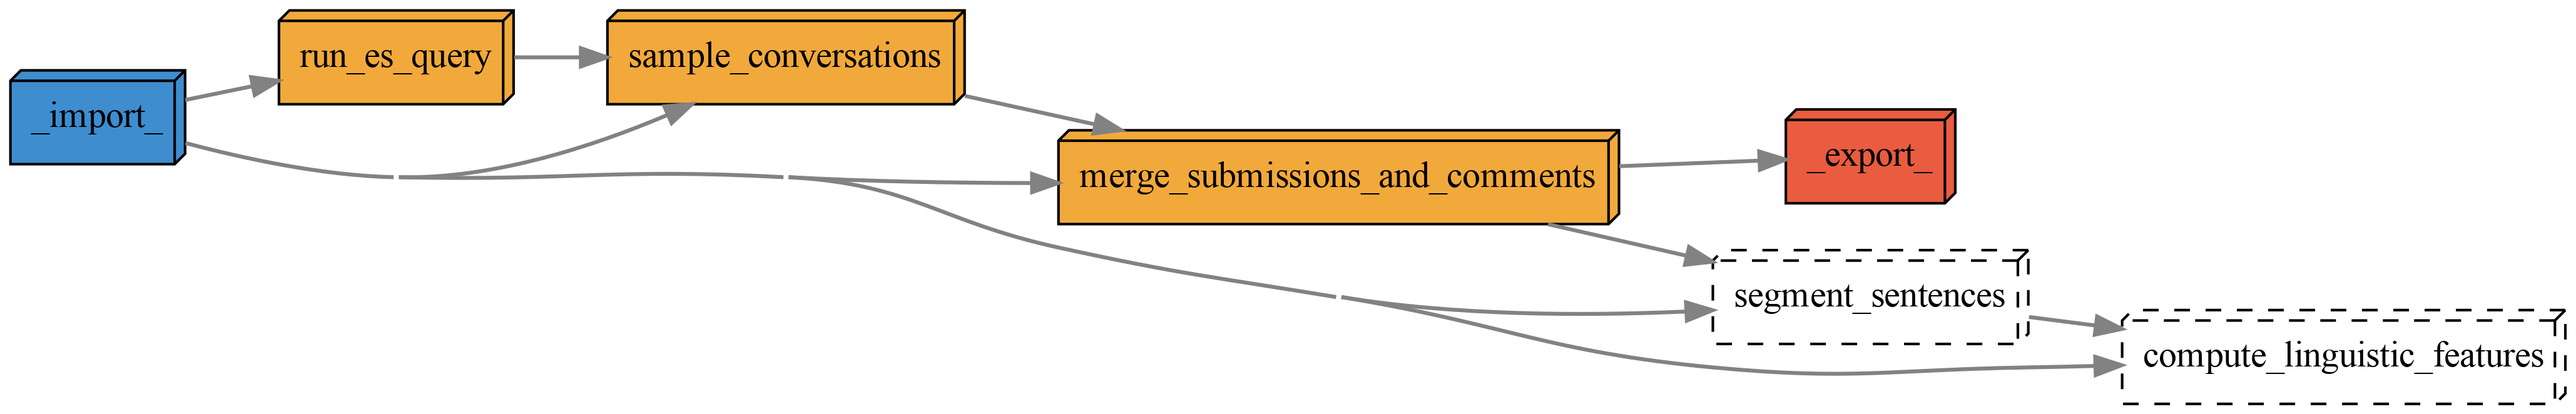
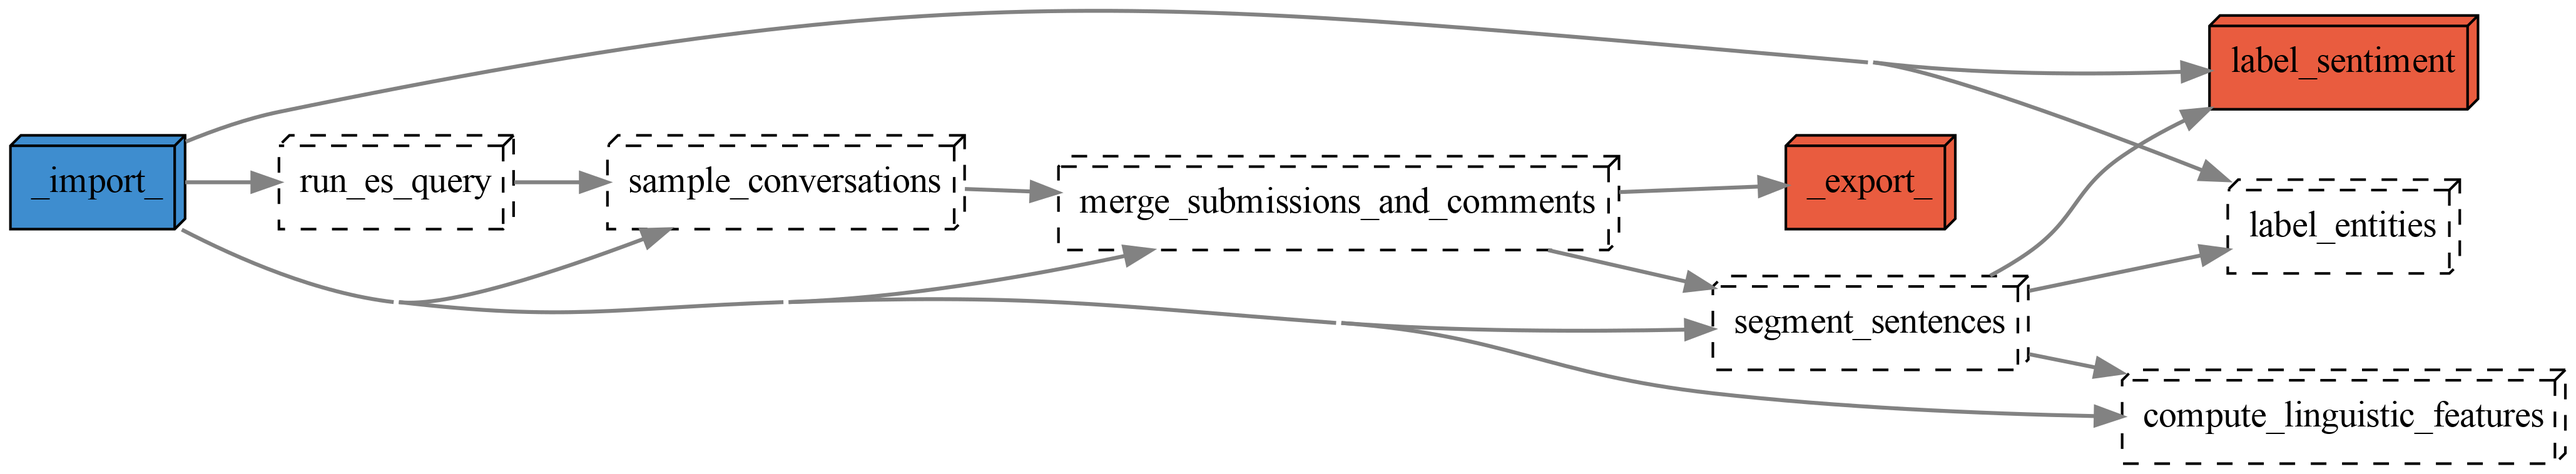
finished sentiment analysis

diff --git a/podlm/podlm/text.py b/podlm/podlm/text.py
@@ -53,46 +53,26 @@ def transformer_entities(df: pd.DataFrame, model, entity_score_threshold: float,
     return results_long, count_types
 
 
-def transformer_sentiment(df, idcol, textcol, poscol, authorcol, datecol, tokenizer, model):
-    scores, ids, positions, author_l, dates_l, sent_l, errors = [], [], [], [], [], [], []
-    id_list = df[idcol].tolist() 
-    sent_list = df[textcol].tolist() 
-    posids = df[poscol].tolist()
-    authors = df[authorcol].tolist()
-    dates = df[datecol].tolist()
-    
-    for i, sent, pos, a, d in zip(id_list, sent_list, posids, authors, dates):
+def transformer_sentiment(df: pd.DataFrame, model, tokenizer, textcol: str = 'sentence', idcol: str = 'id_sentence'): # entity_score_threshold: float,
+    scores, errors, sentids = [], [], []
+    for i, t in enumerate(df[textcol]):
         try:
-            encoded = tokenizer.encode(sent, return_tensors='pt')
+            encoded = tokenizer.encode(t, return_tensors='pt')
             sentsent = model(encoded)
             sentsent = sentsent[0][0].detach().numpy()
-            sentsent = softmax(sentsent) # convert to probabilities
+            sentsent = softmax(sentsent)
             scores.append(sentsent)
-            ids.append(i)
-            positions.append(pos)
-            author_l.append(a)
-            dates_l.append(d)
-            sent_l.append(sent)
+            sentids.append(df.iloc[i][idcol])
         except:
-            errors.append(f'Unable to process {i}\n{sent}\n\n')
+            errors.append([i, t])
+        if len(errors) > 0:
+            for error in errors:
+                print(colored(error, 'red'))
     df = pd.DataFrame(scores)
-    df.columns = ['p(positive) sentiment', 'p(neutral) sentiment', 'p(negative) sentiment']
-    df['id'] = ids
-    df['sentence_position_in_post'] = positions
-    df['author'] = author_l
-    df['date'] = dates_l
-    df['sentence'] = sent_l
-        
-    if len(errors) > 0:
-        with open('../output/errors.txt', 'a', encoding='utf-8') as f:
-            for e in errors:
-                now = datetime.now()
-                now_str = now.strftime("%d/%m/%Y %H:%M:%S")
-                f.write(f'Errors from run: {now_str}\n')
-                f.write(e + '\n')
+    df.columns = ['sentiment_negative', 'sentiment_neutral', 'sentiment_positive']
+    df['sentence_id'] = sentids
     return df
-
-
+        
 
 def transformer_topics(df: pd.DataFrame, textcol: str, 
                        sentence_transformer_model: str, 

diff --git a/pipeline/label_sentiment/src/label_sentiment.py b/pipeline/label_sentiment/src/label_sentiment.py
@@ -1,0 +1,20 @@
+from podlm.utilities import load_configs, configure_logging, load_parquet, save_parquet
+from podlm.text import transformer_sentiment
+from transformers import AutoModelForSequenceClassification, AutoTokenizer
+import logging
+
+# print('🔥🔥🔥 conda activate entities 🔥🔥🔥')
+
+model = 'cardiffnlp/twitter-roberta-base-sentiment-latest'
+tokenizer = AutoTokenizer.from_pretrained(model, max_len=512)
+model = AutoModelForSequenceClassification.from_pretrained(model)
+
+configure_logging(__file__)
+config, _ = load_configs()
+subreddits = config['subreddits']
+
+for r in subreddits:
+    df = load_parquet(f'{r}_sentences')
+    df = transformer_sentiment(df, model, tokenizer)
+    save_parquet(df, f'{r}_sentiment')
+    logging.debug("Finished sentiment analysis.") 

diff --git a/pipeline/label_entities/src/label_entities.py b/pipeline/label_entities/src/label_entities.py
@@ -3,7 +3,7 @@ from podlm.text import transformer_entities
 from span_marker import SpanMarkerModel
 import logging
 
-# print('🔥🔥🔥 conda activate transformers 🔥🔥🔥')
+# print('🔥🔥🔥 conda activate entites 🔥🔥🔥')
 
 model = SpanMarkerModel.from_pretrained("lxyuan/span-marker-bert-base-multilingual-uncased-multinerd")
 model.cuda()

diff --git a/README.md b/README.md
@@ -47,6 +47,21 @@ everytime it executes the pipeline.
 
 # Environments
 
+You can find `yaml` files to create the environments used in this project in `environments/`.
+
+To write a new environment called `entities.yml`, for example: 
+
+```bash
+conda env export > environments/entities.yml
+```
+
+To create a new environment from a `yaml` file, for example `entities` from `entities.yml`:
+
+```bash
+conda env create -f environments/entities.yml
+```
+
+
 # Packages
 
 ## `curry`
